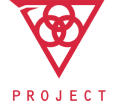
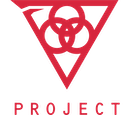
デザイン修正, ヘッター・フッターの画像変更

diff --git a/src/views/TopView.vue b/src/views/TopView.vue
@@ -1,42 +1,42 @@
 <template>
-<header class="justify-between items-center py-4 min-w-full">
+<header class="justify-between items-center py-3 min-w-full">
   <img src="@/assets/PG_rd2.png" alt="Logo" class="text-gray-800 text-2xl lg:text-3xl font-bold text-center mx-auto">
 </header>
-<div class="px-4 md:px-8 mx-auto mb-10 main mt-8">
+<div class="px-4 md:px-8 mx-auto mb-10 main mt-8 max-w-screen-2xl">
   <div class="bg-white">
     <div class="grid lg:grid-cols-5 md:grid-cols-4 grid-cos-1 gap-12 xl:mx-32 lg:mx-20 sm:mx-10 md:mx-10 mx-4">
       
       <div class="left w-full lg:col-span-3 md:col-span-2 cos-span-1 sm:text-left text-center">
         <div class="sm:contents hidden">
           <p class="lg:tracking-widest glay text-xl mb-3">サービス資料ダウンロードページ</p>
-          <h1 class="xl:tracking-widest tracking-wide glay text-3xl">Google Analytics 4がもっとわかる</h1>
-          <p class="lg:tracking-widest glay text-sm mt-3">本フォーム入力後、メールアドレスあてに自動返信メールにて、</p>
+          <h1 class="tracking-base glay text-3xl">Google Analytics 4 がもっとわかる</h1>
+          <p class="lg:tracking-widest glay text-sm mt-4">本フォーム入力後、メールアドレスあてに自動返信メールにて、</p>
           <p class="lg:tracking-widest glay text-sm mb-8">すぐに資料を添付させて頂きます。</p>
         </div>
 
         <div class="sm:hidden contents">
-          <h1 class="xl:tracking-widest tracking-wide glay text-3xl">Google Analytics 4が</h1>
+          <h1 class="xl:tracking-widest tracking-base glay text-3xl">Google Analytics 4 が</h1>
           <h1 class="xl:tracking-widest tracking-wide glay text-3xl">もっとわかる</h1>
           <p class="lg:tracking-widest glay text-sm mt-3">本フォーム入力後、</p>
           <p class="lg:tracking-widest glay text-sm">メールアドレスあてに自動返信メールにて、</p>
           <p class="lg:tracking-widest glay text-sm mb-8">すぐに資料を添付させて頂きます。</p>
         </div>
         
-        <img src="@/assets/ga4_main.png" class="text-gray-800  text-center mx-auto sdw block rds">
+        <img src="@/assets/ga4_main.png" class="text-gray-800 w-max text-center mx-auto sdw block rds">
         
         <div class="mt-5">
-          <ul class="text-gray-500 md:text-lg w-max  grid grid-cos-1 mx-auto">
-            <h1 class="glay tracking-widest orange text-2xl mb-2 cos-span-1"><img src="@/assets/light_icon.png" alt="Logo" class="mb-2.5 mr-2 inline-block">この資料でわかること</h1>
-            <li class="glay sm:tracking-widest tracking-wide cos-span-1">・GoogleAnalytics 4とは</li>
-            <li class="glay sm:tracking-widest tracking-wide cos-span-1">・GoogleAnalytics 4の5つの変更点</li>
-            <li class="glay sm:tracking-widest tracking-wide cos-span-1">・GA4導入を今すぐ行う必要性</li>
-            <li class="glay sm:tracking-widest tracking-wide cos-span-1">・導入サポートの料金費用</li>
-            <li class="glay sm:tracking-widest tracking-wide cos-span-1">・ご発注から計測開始までのスケジュール</li>
+          <ul class="text-gray-500 md:text-lg w-max">
+            <h1 class="glay tracking-widest orange text-2xl mb-2"><img src="@/assets/light_icon.png" alt="Logo" class="mb-2.5 mr-2 inline-block">この資料でわかること</h1>
+            <li class="glay sm:tracking-widest tracking-wide">・Google Analytics 4 とは</li>
+            <li class="glay sm:tracking-widest tracking-wide">・Google Analytics 4 の5つの変更点</li>
+            <li class="glay sm:tracking-widest tracking-wide">・GA4導入を今すぐ行う必要性</li>
+            <li class="glay sm:tracking-widest tracking-wide">・導入サポートの料金費用</li>
+            <li class="glay sm:tracking-widest tracking-wide">・ご発注から計測開始までのスケジュール</li>
           </ul>
         </div>
       </div>
 
-      <div class="right px-4 pt-14 pb-4 lg:col-span-2 md:col-span-2 cos-span-1 md:h-min mx-auto md:w-full sm:w-10/12 sdw">
+      <div class="right px-4 pt-14 pb-4 lg:col-span-2 md:col-span-2 cos-span-1 md:h-min mx-auto w-auto sdw">
         <!-- form - start -->
         <form class="max-w-screen-md grid sm:grid-cols-2 gap-4 mx-auto">
           <div class="sm:col-span-2">
@@ -45,19 +45,19 @@
             <p v-if="errors['company']" class="need">{{errors['company']}}</p>
           </div>
 
-          <div class="sm:col-span-2">
+          <div class="sm:col-span-2 mt-4">
             <label for="name" class="tracking-wider font-label font-bold inline-block text-sm sm:text-base mb-2"><span class="need bg-red-50	text-sm sm:text-base py-1 px-4 mr-2 rounded">必須</span>氏名</label>
             <input id="name" name="name" v-model="name" type="text" placeholder="例)  お名前" class="w-full rounded-lg border-gray-300 border-2 placeholder-gray-300" />
             <p v-if="errors['name']" class="need">{{errors['name']}}</p>
           </div>
 
-          <div class="sm:col-span-2">
+          <div class="sm:col-span-2 mt-4">
             <label for="email" class="tracking-wider font-label font-bold inline-block text-sm sm:text-base mb-2"><span class="need bg-red-50	text-sm sm:text-base py-1 px-4 mr-2 rounded">必須</span>メールアドレス</label>
             <input id="email" name="email" v-model="email" type="email" placeholder="例)  sample@project-g.co.jp" class="w-full rounded-lg border-gray-300 border-2 placeholder-gray-300" />
             <p v-if="errors['email']" class="need">{{errors['email']}}</p>
           </div>
 
-          <div class="sm:col-span-2">
+          <div class="sm:col-span-2 mt-4">
             <label for="phone" class="tracking-wider font-label font-bold inline-block text-sm sm:text-base mb-2"><span class="need bg-red-50	text-sm sm:text-base py-1 px-4 mr-2 rounded">必須</span>電話番号</label>
             <input id="phone" name="phone" v-model="phone" type="text" placeholder="例)  0362069608" class="w-full rounded-lg border-gray-300 border-2 placeholder-gray-300 " />
             <p v-if="errors['phone']" class="need">{{errors['phone']}}</p>
@@ -71,7 +71,7 @@
             </div>
           </div>
           <div class="sm:col-span-2 mx-3 text-center">
-            <input type="button" @click="getForm" value="資料をダウンロード" class="tracking-widest w-full bg-yellow-200 hover:bg-yellow-300 active:bg-yellow-500 focus-visible:ring ring-gray-300 text-black xl:text-2xl lg:text-lg md:text-base sm:text-lg text-sm font-semibold rds sdw outline-none transition duration-100 px-8 py-3 mx-auto">
+            <input type="button" @click="getForm" value="資料をダウンロード" class="tracking-widest w-full bg-yellow-200 hover:bg-yellow-300 active:bg-yellow-500 focus-visible:ring ring-gray-300 text-black text-base font-semibold rds sdw outline-none transition duration-100 px-8 py-3 mx-auto">
           </div>
         </form>
         <!-- form - end -->

diff --git a/public/index.html b/public/index.html
@@ -12,7 +12,7 @@
     <meta http-equiv="X-UA-Compatible" content="IE=edge">
     <meta name="viewport" content="width=device-width,initial-scale=1.0">
     <link rel="icon" href="<%= BASE_URL %>favicon.ico">
-    <title>ga4_web</title>
+    <title>サービス資料ダウンロードページ</title>
   </head>
   <body>
     <!-- Google Tag Manager (noscript) -->
